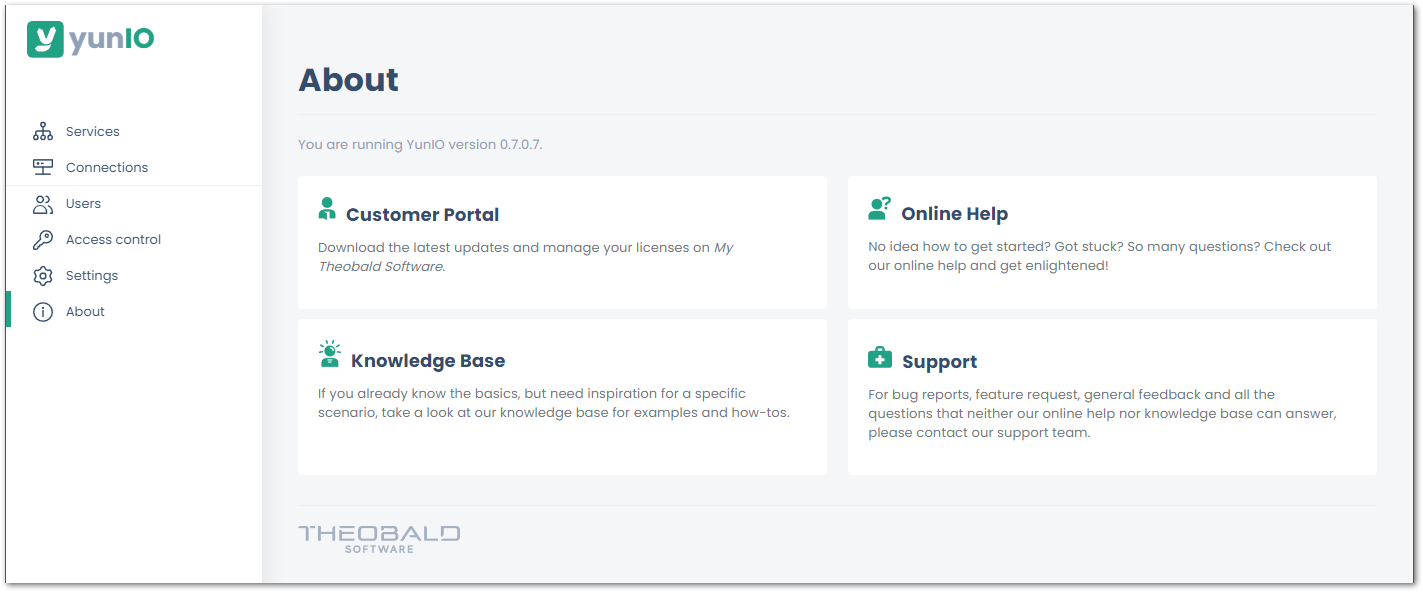
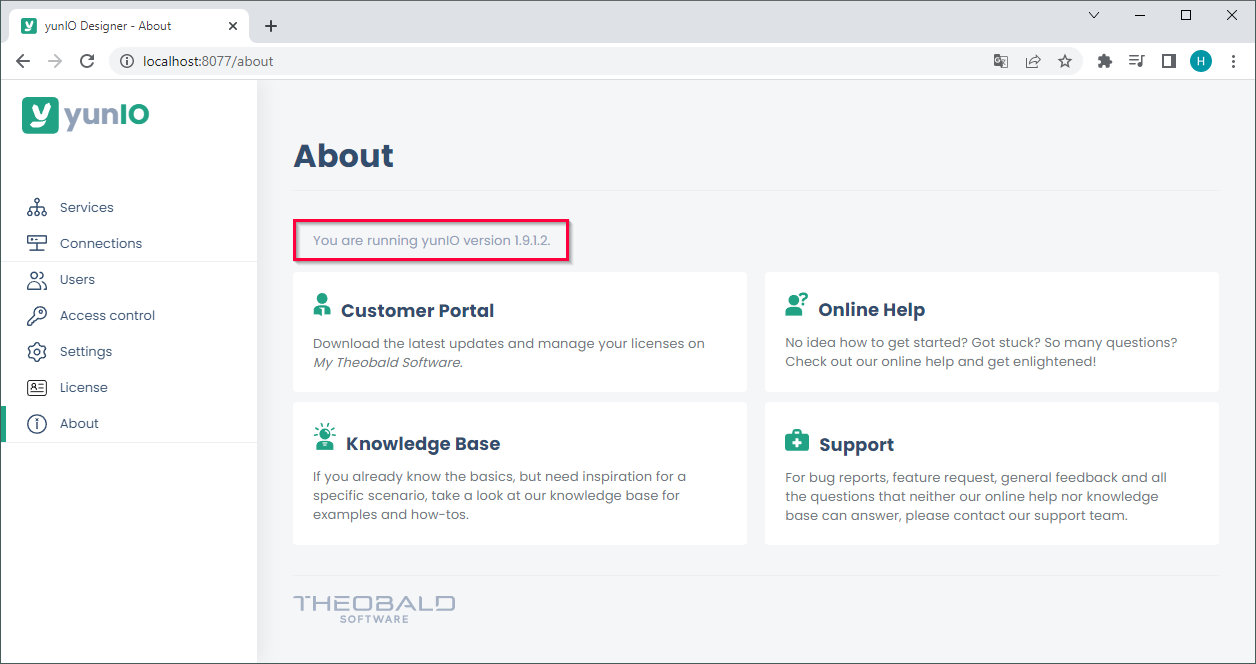
draft

diff --git a/content/_de/yunio/einfuehrung/installation-und-update.md b/content/_de/yunio/einfuehrung/installation-und-update.md
@@ -32,7 +32,7 @@ Beim Starten des Setups können die optionalen Komponenten für die Installation
 | Enable .NET updates via Windows Updater <br>for Windows Server Edition. |- | Erzeugt einen Eintrag in der Regitry, der automatisch .NET aktualisiert. |
 |Open the yunIO Designer after installation|- | Öffnet nach der Installation den yunIO Designer in Ihrem Standard-Browser.|
 
-Die Installationsschritte werden im Abschnitt [Lizenz](#lizenz) beschrieben.
+Für Informationen zur Installation der Lizenz, siehe [Lizenz](./lizenz).
 
 #### Enable .NET updates via Windows Updater for Windows Server Edition
 Diese Option ist nur auf Windows Server Editionen verfügbar und nur wenn sie nicht bereits aktiv ist.<br>
@@ -65,14 +65,21 @@ Alle Einstellungen und angelegte Objekte bleiben erhalten.
 
 #### Update-Vorbereitung
 
-{: .box-tip }
-**Tipp:** Abonnieren Sie per [E-Mail](mailto:info@theobald-software.com) den regelmäßig erscheinenden Newsletter von Theobald Software, der Sie über Änderungen in der Versionshistorie und Veröffentlichungshinweise (Release Notes) informiert.
-
 1. Prüfen Sie, ob Sie über eine funktionierende Testumgebung mit einer gültigen Lizenz und Wartung verfügen.
 2. Stellen Sie sicher, dass die Testumgebung eine Kopie der aktuellen Produktivumgebung ist.
 3. Prüfen Sie die [Versionshistorie](https://kb.theobald-software.com/version-history) und die Veröffentlichungshinweise (Release Notes) in der Knowledge-Base, um eine Update-Notwendigkeit auszuschließen. 
 4. Erstellen Sie ein Backup der aktuellen Installation.
 5. Führen Sie alle notwendigen Vorbereitungen und Änderungen durch, die in den Veröffentlichungshinweisen (Release Notes) / Versionshistorie  beschrieben sind. 
+
+{: .box-tip }
+**Tipp:** Abonnieren Sie per [E-Mail](mailto:info@theobald-software.com) den regelmäßig erscheinenden Newsletter von Theobald Software, der Sie über Änderungen in der Versionshistorie und Veröffentlichungshinweise (Release Notes) informiert.
+
+### Versionsnummer
+Um Ihre aktuellen Versionsnummer einzusehen, öffnen Sie das **About** Menü in der Hauptmenüleiste des yunIO Designers.<br>
+Die Versionsnummer wird Ihnen unter dem Seitentitel angezeigt.<br>
+
+![Demo_License](/img/content/yunio/About.png){:class="img-responsive"}
+
 
 ****
 #### Weiterführende Links

diff --git a/content/_en/yunio/introduction/installation-and-update.md b/content/_en/yunio/introduction/installation-and-update.md
@@ -34,7 +34,7 @@ When starting the setup the following components can be selected during the inst
 | Enable .NET updates via Windows Update <br>for Windows Server Edition. |- | Adds a registry entry that automatically updates .NET.|
 |Open the yunIO Designer after installation |- |Opens the yunIO Designer in your standard web browser.|
 
-The license installation procedure is described in the section [Installing the license](#license).
+For information on how to install a license, see [License](./license).
 
 #### Enable .NET updates via Windows Update for Windows Server Edition
 
@@ -67,17 +67,23 @@ can be installed over the older version. All settings and created objects are pr
 
 #### Update Preparation
 
-{: .box-tip }
-**Tip:** Subscribe via [email](mailto:info@theobald-software.com) to Theobald Software’s regular newsletter that
-informs about changes in the version history and release notes.
-
-1. Check if you have a working test environment with a valid license and maintenance.
+1. Check if you have a working test environment with a valid license.
 2. Make sure that the test environment is a copy of the current production environment.
 3. Check the [Version History](https://kb.theobald-software.com/version-history) and release notes in the
 knowledge base to check, if an update is needed.
 4. Create a backup of the current installation.
 5. Conduct any necessary preparations and changes as described in the Release Note / Version History.
 
+{: .box-tip }
+**Tip:** Subscribe via [email](mailto:info@theobald-software.com) to Theobald Software’s regular newsletter that
+informs about changes in the version history and release notes.
+
+### Version Number
+
+To check your current version number, navigate to **About** menu in the yunIO Designer. <br>
+The version number is displayed next to the page title.
+
+![Demo_License](/img/content/yunio/About.png){:class="img-responsive"}
 
 ****
 #### Related links

diff --git a/content/_de/yunio/einfuehrung/lizenz.md b/content/_de/yunio/einfuehrung/lizenz.md
@@ -14,19 +14,21 @@ progressstate: 5
 ### Über das Lizenzierungskonzept von yunIO
 yunIO wird pro Windows Server lizenziert. Eine Demo-Lizenz gültig für 30 Tage wird automatisch mit der Installation bereitgestellt.
 
-Eine reguläre Lizenz wird nach dem Kauf des Produkts im [Kundenportal - My Theobald Software](https://my.theobald-software.com/) zur Verfügung gestellt. 
+Eine reguläre Lizenz wird nach dem Kauf des Produkts im [Theobald Software Kundenportal](https://my.theobald-software.com/) zur Verfügung gestellt. 
 Die Lizenz ist an Ihre Entität und einen bestimmten Servernamen gebunden.<br>
 Wenn Sie den yunIO Designer und den yunIO Server auf verschiedenen Rechnern betreiben, muss nur die Demo-Serverlizenz, durch eine reguläre Lizenz ersetzt werden.
  
 ### Installieren von yunIO Lizenz - YunIOLicense.json
-Um die reguläre Lizenz zu installieren, legen Sie die YunIOLicense.json-Datei in das folgende Programm-Verzeichnis des Servers ab:
-`C:\Program Files\Theobald Software\YunIO` <br>
 
+1. Öffnen Sie das **License** Menü in der Hauptmenüleiste des yunIO Designers.<br>
+![License](/img/content/yunio/License.png){:class="img-responsive"}
+2. Klicken Sie auf **[Choose License]** und öffnen Sie die YunIOLicense.json Datei.
+3. Prüfen Sie, ob die angezeigten Lizenzdaten korrekt sind.
+4. Klicken Sie auf **[Upload and Save]**, um die Lizenz zu übertragen.<br>
 Ein Neustart des yunIO Windows-Dienstes ist nicht notwendig.<br>
-Um Ihre aktuellen Lizenzdaten einzusehen, wählen Sie in der Hauptmenüleiste des yunIO Designers **[About]**.
-Die Versionsnummer wird Ihnen rechts neben dem Seitentitel angezeigt.<br>
 
-![Demo_License](/img/content/yunio/About.png){:class="img-responsive"}
+Alternativ können Sie die YunIOLicense.json Datei manuell in dem folgenden Programm-Verzeichnis des Servers ablegen: <br>
+`C:\Program Files\Theobald Software\YunIO` 
 
 ****
 #### Weiterführende Links

diff --git a/content/_en/yunio/introduction/license.md b/content/_en/yunio/introduction/license.md
@@ -16,19 +16,21 @@ progressstate: 5
 yunIO is licensed per Windows server where the solution is installed.
 A demo license valid for 30 days is automatically provided with the installation of yunIO.
 
-A regular license is provided in the [costumer portal - My Theobald Software](https://my.theobald-software.com/) after purchasing the product. 
+A regular license is provided in the [Theobald Software Costumer Portal](https://my.theobald-software.com/) after purchasing the product. 
 The product license is bound to your company and the server on which the yunIO server runs.<br>
  
 
 ### Installing the yunIO License - yunIOLicense.json
-For installing the regular license, place the regular yunIOLicense.json into the following directory of the server: <br>
+
+1. Navigate to the **License** menu in the yunIO Designer.<br>
+![License](/img/content/yunio/License.png){:class="img-responsive"}
+2. Click **[Choose License]** and open the yunIOLicense.json file.
+3. Check the validity of the license data that is displayed.
+4. Click **[Upload and Save]** to activate the license.<br>
+A restart of the yunIO service is not necessary.
+
+Alternatively, you can copy and paste the yunIOLicense.json file into the following server directory: <br>
 `C:\Program Files\Theobald Software\YunIO`
-
-A restart of the yunIO service is not necessary.<br>
-To inspect your current license data, go to the main menu of yunIO and navigate to **[About]**. 
-The version number is displayed next to the page title.
-
-![Demo_License](/img/content/yunio/About.png){:class="img-responsive"}
 
 ****
 #### Related links

diff --git a/content/_de/yunio/einfuehrung/evaluierung.md b/content/_de/yunio/einfuehrung/evaluierung.md
@@ -31,6 +31,6 @@ Sollten Sie Fragen haben, können Sie sich jederzeit an Theobald Software wenden
 
 ****
 #### Weiterführende Links
-- [Voraussetzungen](./einfuehrung#systemvoraussetzungen)
-- [Lizenzierung](./einfuehrung#lizenz)
+- [Voraussetzungen](./einfuehrung/systemvoraussetzungen)
+- [Lizenzierung](./einfuehrung/lizenz)
 

diff --git a/content/_en/yunio/introduction/evaluation.md b/content/_en/yunio/introduction/evaluation.md
@@ -32,5 +32,5 @@ In case of any questions or doubts, feel free to contact Theobald Software at an
 
 ****
 #### Related Links
-- [Requirements](./introduction#requirements)
-- [Licensing](./introduction#license)
+- [Requirements](./introduction/requirements)
+- [Licensing](./introduction/license)
